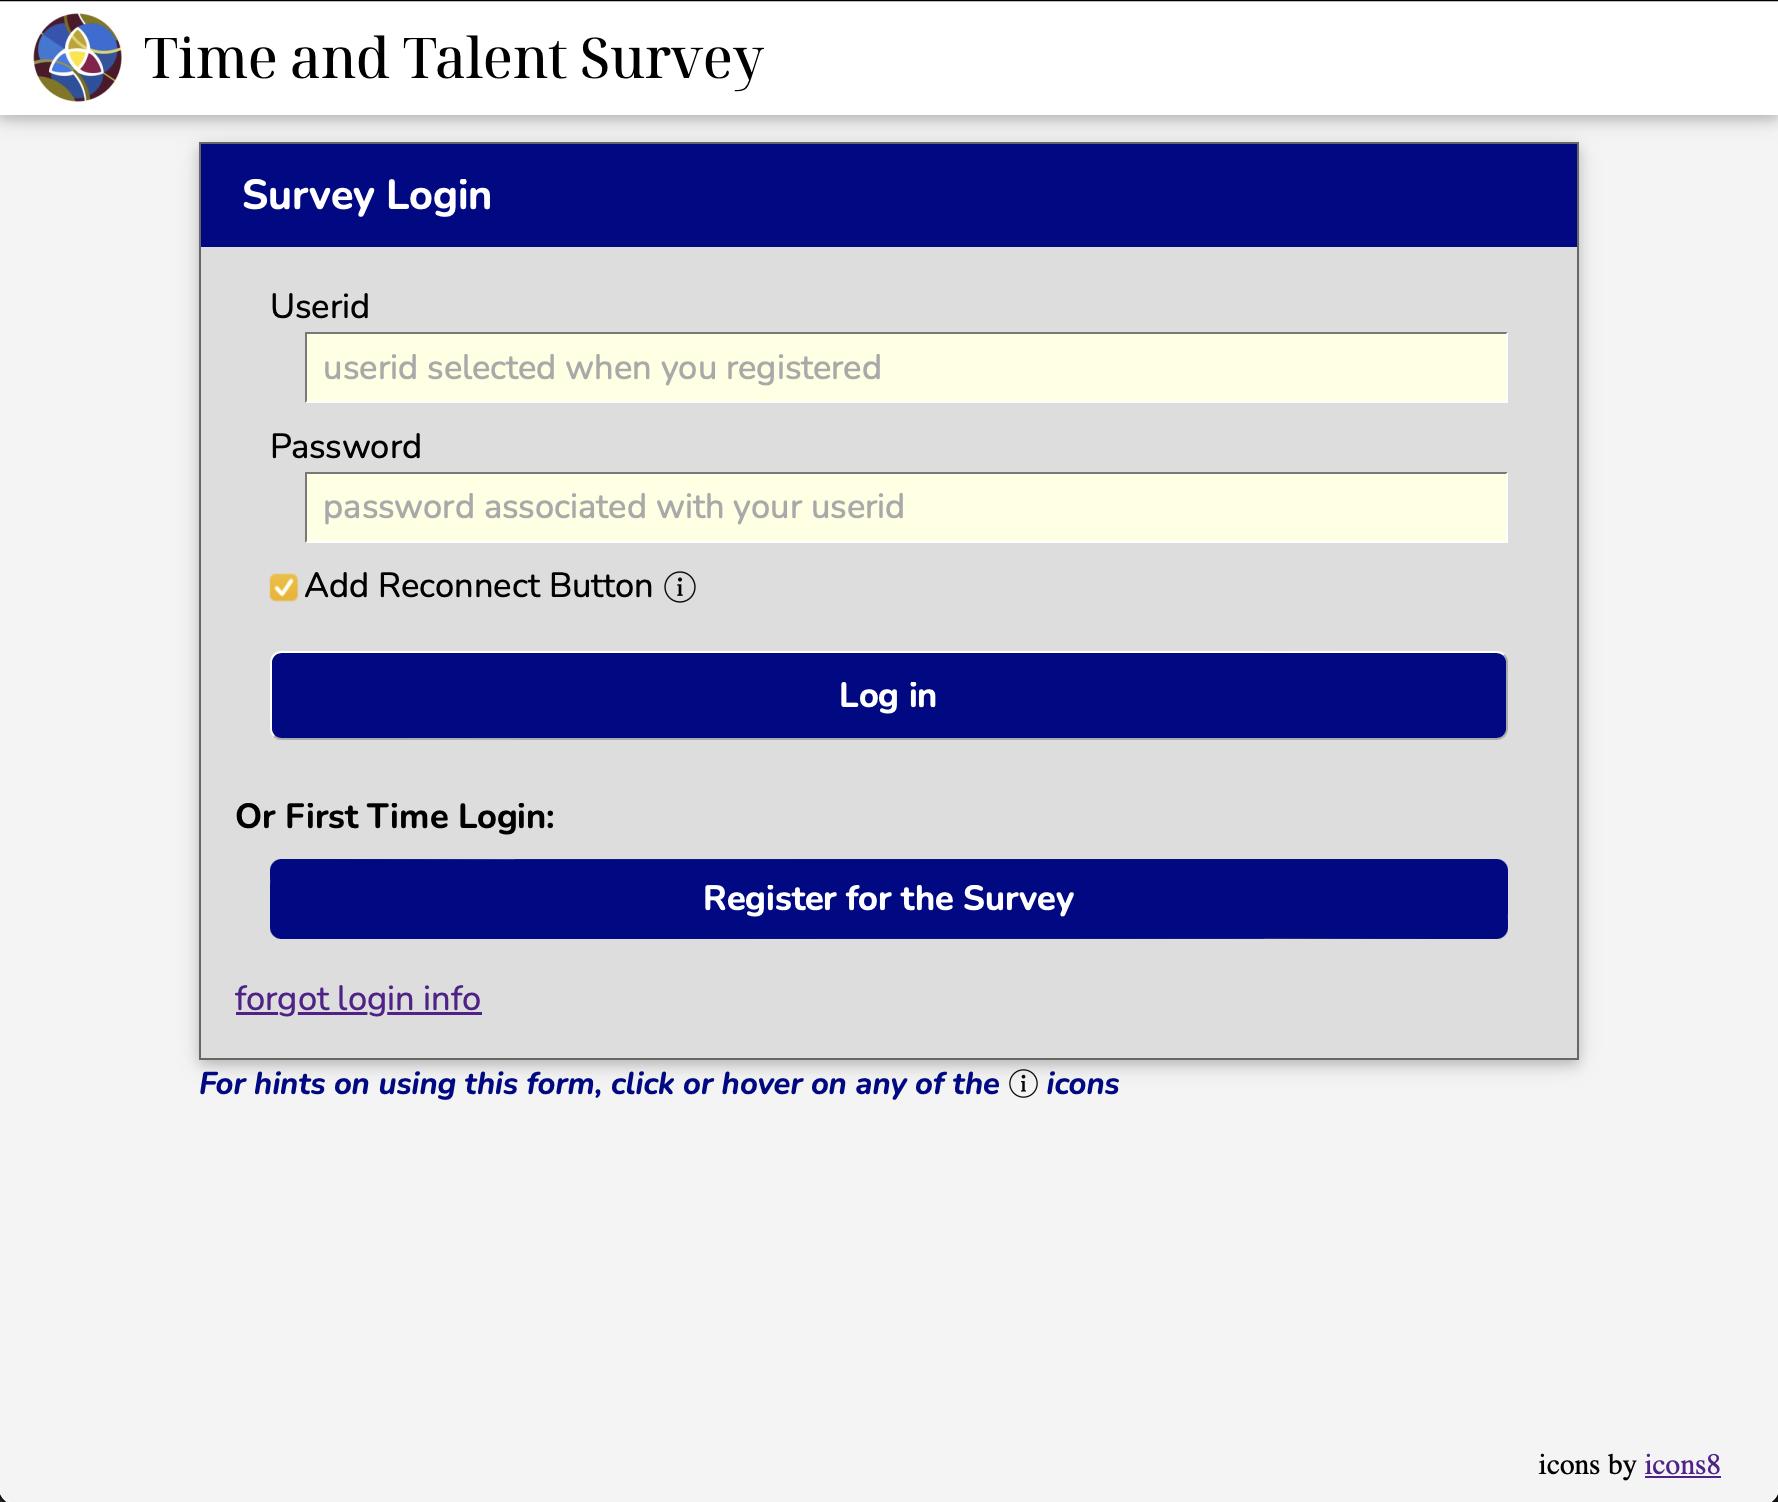
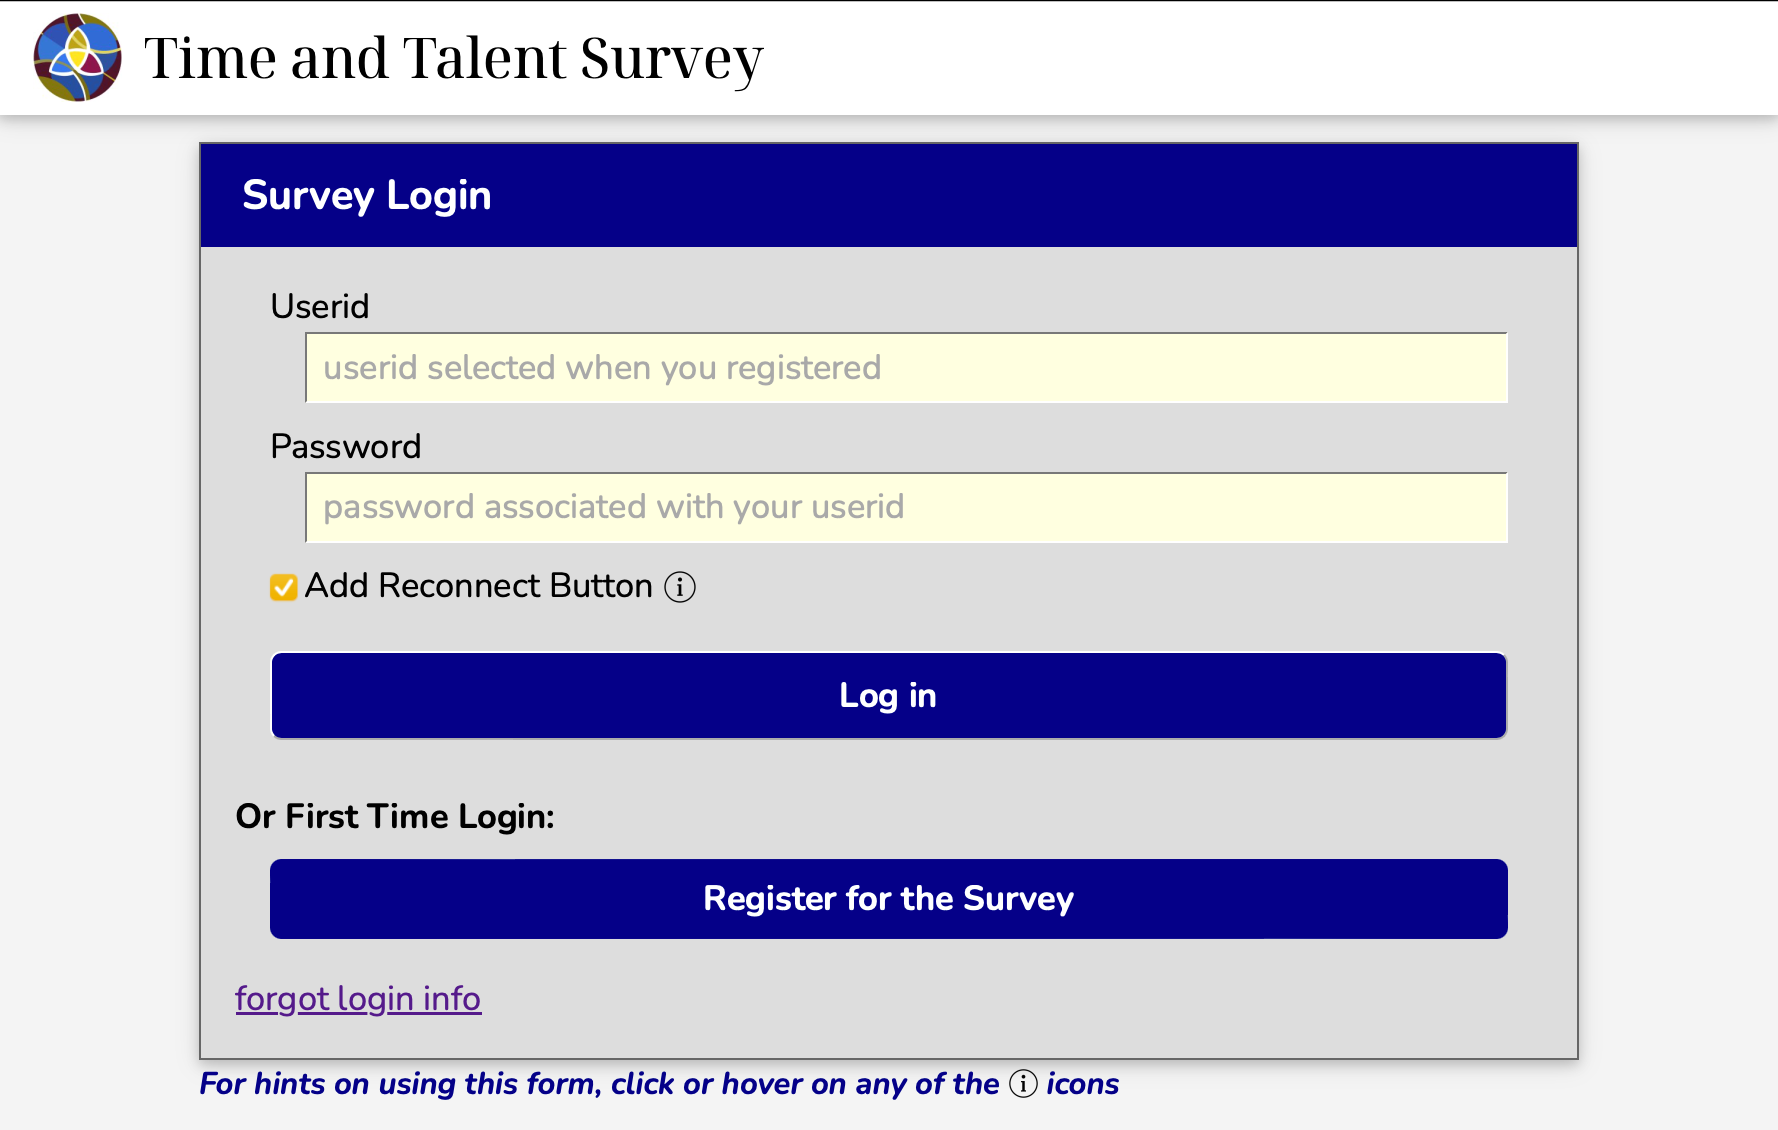
cropped graphics for better display

diff --git a/docs/participants.md b/docs/participants.md
@@ -23,7 +23,7 @@ When a user elects to register for a new account, they will be presented with a 
 
 <img src="img/user_register.png" alt="Registration Form" width="600">
 
-The will need to provie:
+They will need to provie:
   - a unique userid (*no two users can have the same userid*)
   - a password (*rules are provided as an info button in the form*)
   - display name that will be used in the survey and response summary
